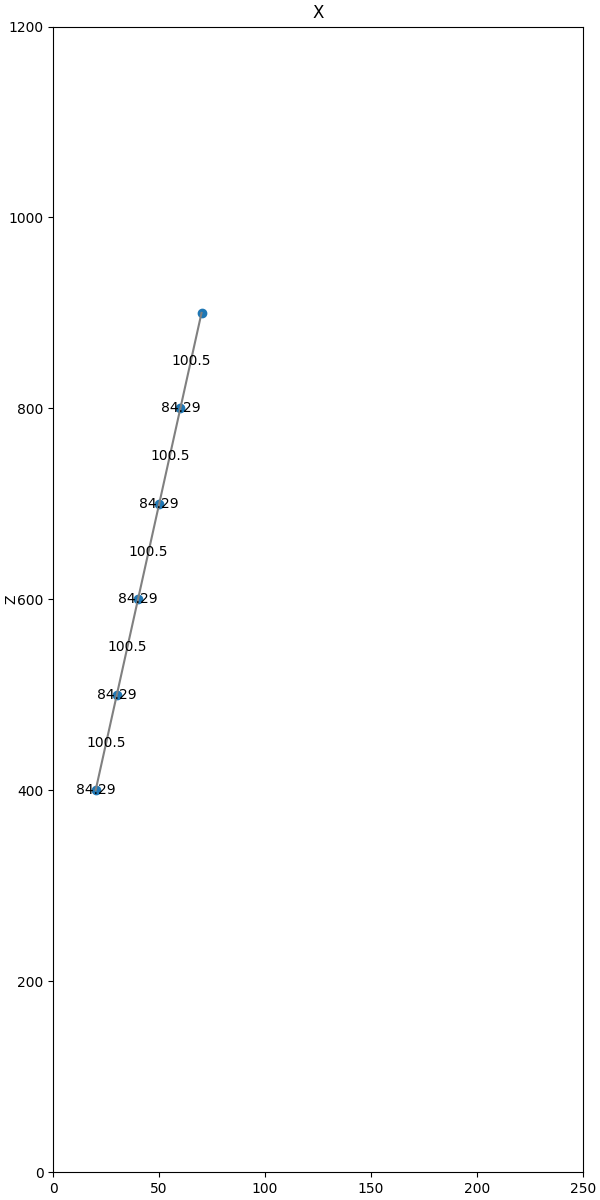
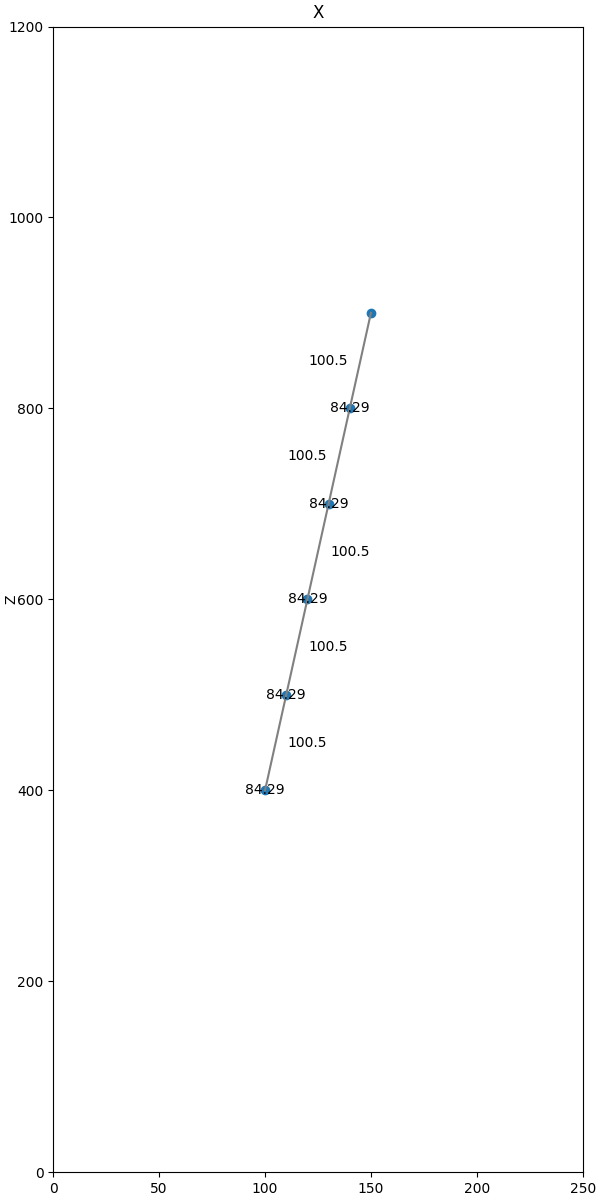
Button to clear personal info

diff --git a/main.py b/main.py
@@ -216,7 +216,20 @@ def plotPoints2d(pointsx, pointsy, window, saveAs, xlabel):
     # Show distances between points
     for i in range(5):
         xmidpoint = pointsx[i] + ((pointsx[i + 1] - pointsx[i]) / 2)
+        if xlabel is 'X':
+            if xmidpoint > 125:
+               xmidpoint -= 15
+            else:
+                xmidpoint += 15
+
+        else:
+            if xmidpoint > 0:
+                xmidpoint -= 15
+            else:
+                xmidpoint += 15
+
         ymidpoint = pointsy[i] + ((pointsy[i + 1] - pointsy[i]) / 2)
+
         figxy.text(xmidpoint, ymidpoint, distances[i], horizontalalignment='center', verticalalignment='center',
                    transform=ax.transData)
 
@@ -466,8 +479,8 @@ def saveAsPdf(imie, nazwisko, dataUrodzenia, pesel, dataPomiaru, opis):
 # generate some test values and draw graphs from that
 def testPoints():
     for i in range(6):
-        points[0, i] = 20 + i * 10
-        points[1, i] = (i + 2) * 5
+        points[0, i] = 100 + i * 10
+        points[1, i] = (i - 2) * 5
         points[2, i] = (i + 4) * 100
 
     print(points)
